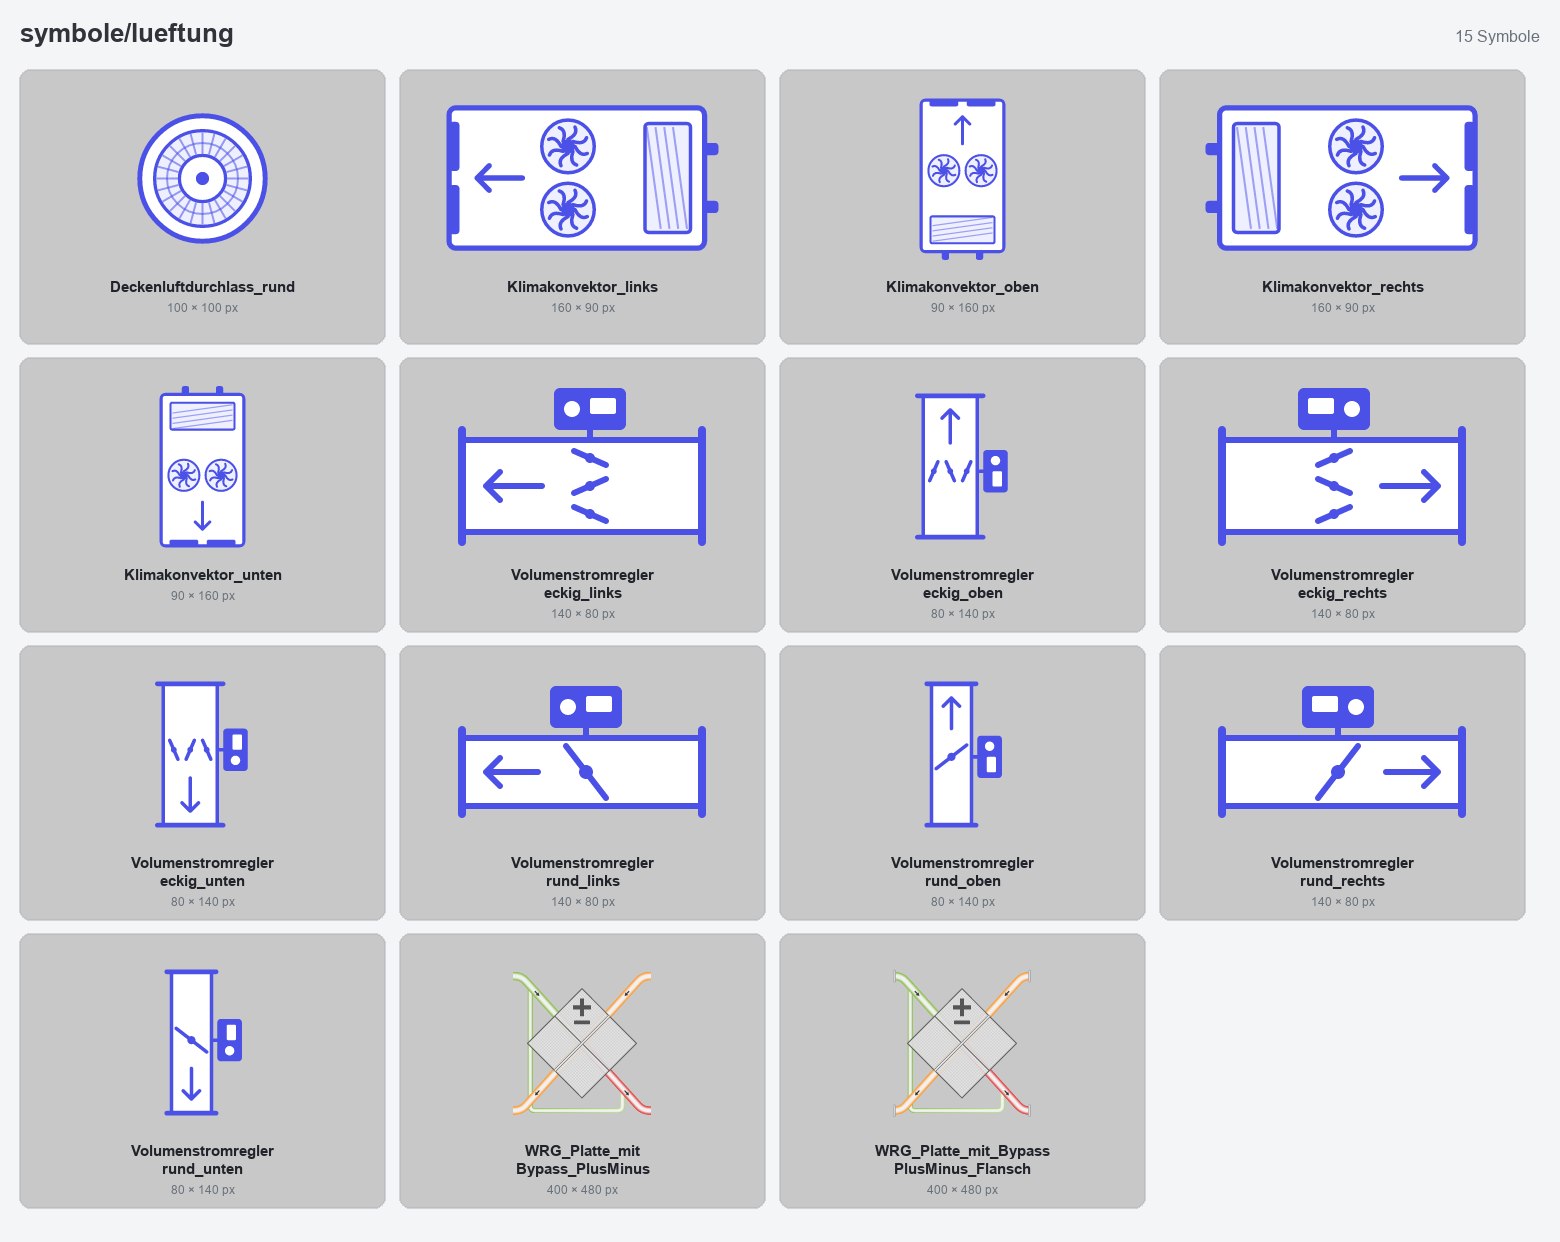
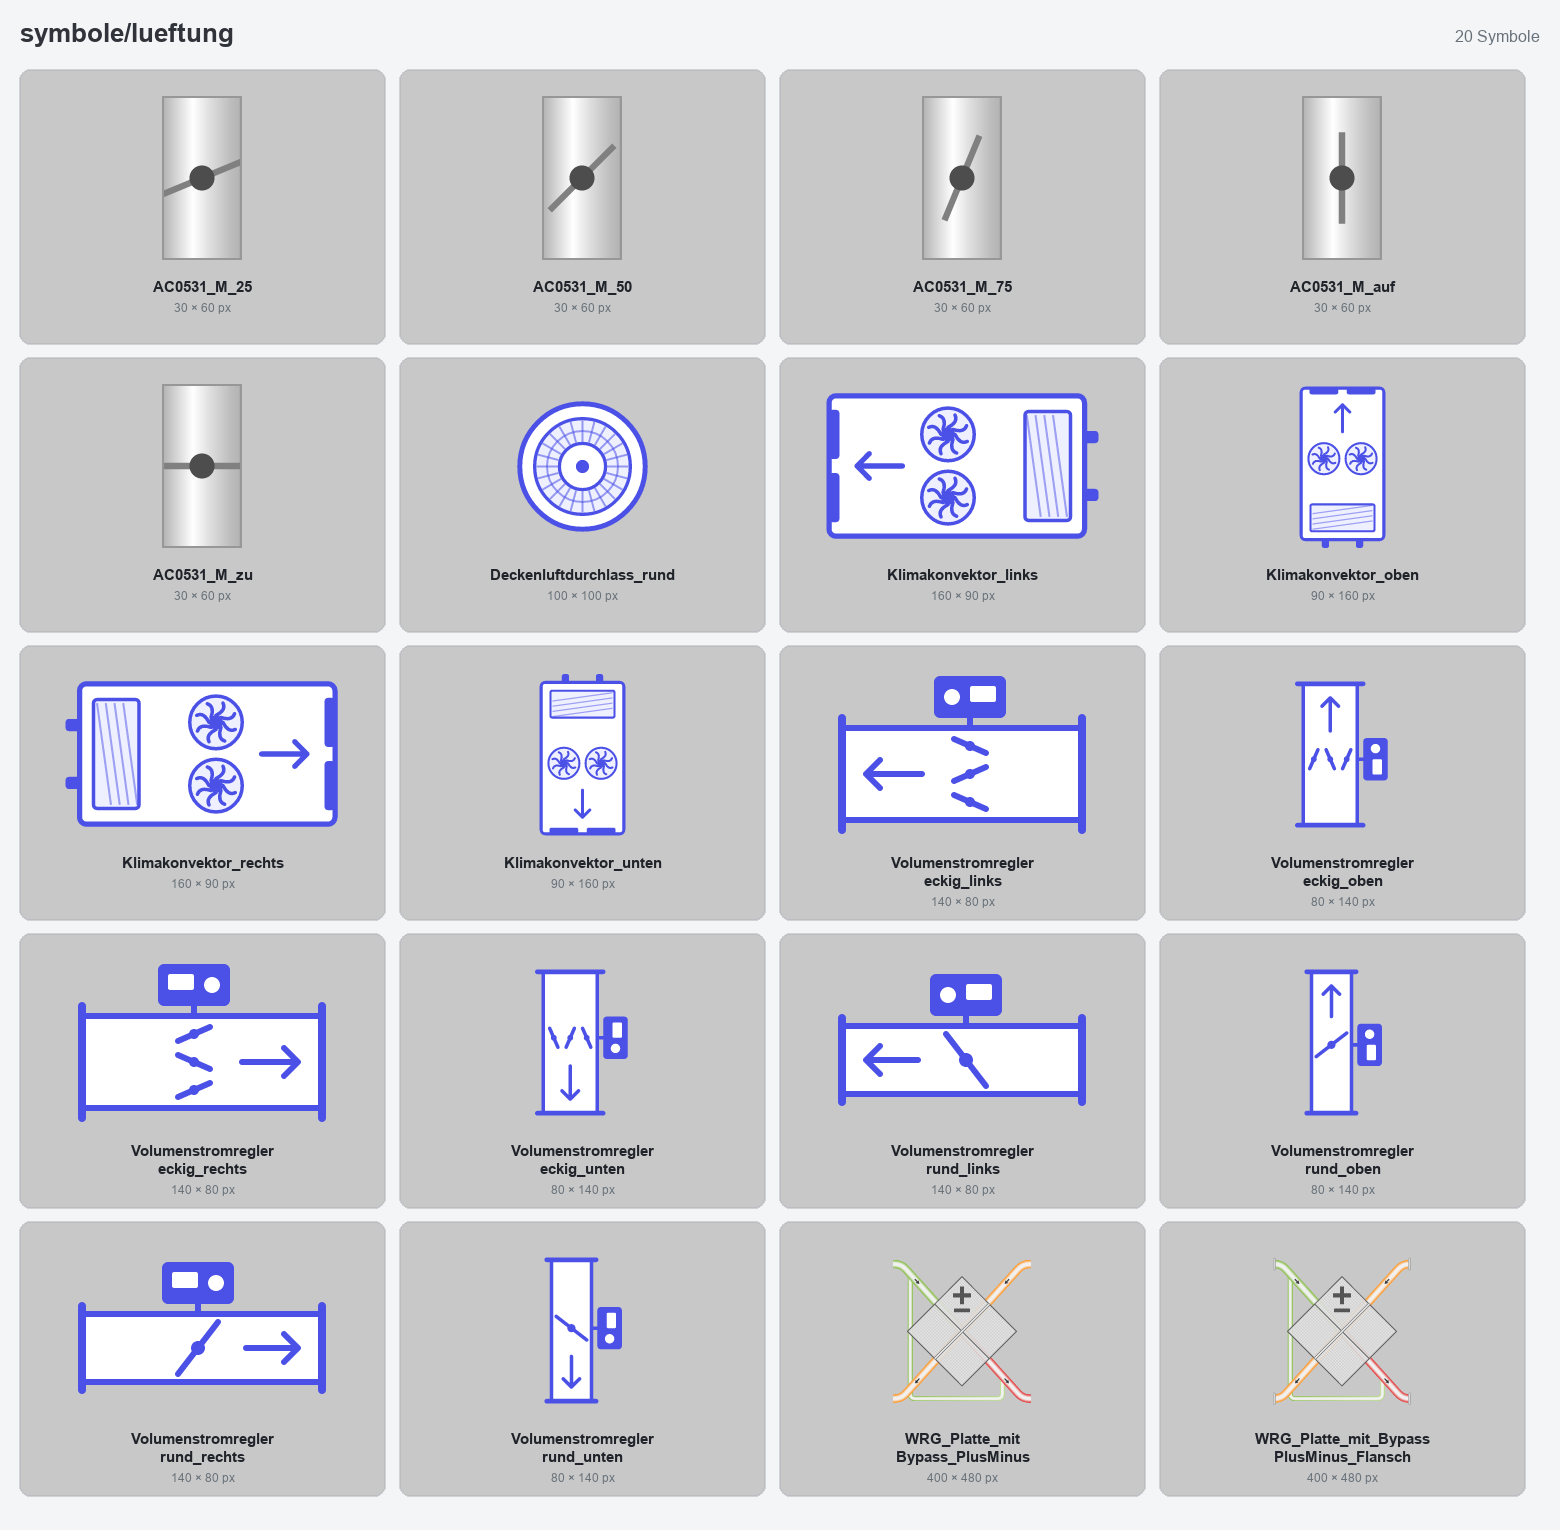
Klappe AC0531_M in fünf Stellungen (zu, 25, 50, 75, auf), Katalog und Übersicht ergänzt

diff --git a/docs/SYMBOLKATALOG.md b/docs/SYMBOLKATALOG.md
@@ -14,6 +14,7 @@ Status: Das Repository enthält die Symbole unter `symbole/` (jeweils SVG + PNG)
 | Deckenluftdurchlass rund (Hallen-Lochblech) | quadratisch | Kreis füllt die Bildfläche, ohne Stellhebel |
 | WRG Kreuzstrom-Plattenwärmetauscher | 400 × 480 (im Schema ca. 331 × 399) | Kein Rahmen; Anschlüsse links/rechts bei y = 46,5 und y = 435,5, Kanalhöhe 24; Varianten mit/ohne Bypass |
 | WRG mit Flanschen (`WRG_Platte_mit_Bypass_PlusMinus_Flansch`) | 400 × 480 | Wie oben, zusätzlich Flansch (6 × 34) an allen vier Anschlüssen ganz außen am Symbolrand; Kanäle enden am Flansch. Bestehender Kanal im Schema muss an der Flanschkante enden |
+| Klappe AC0531_M in fünf Stellungen (`AC0531_M_zu`, `_25`, `_50`, `_75`, `_auf`) | 30 × 60 | Klappenblatt 90° / 67,5° / 45° / 22,5° / 0° zur Kanalachse (zu = quer, auf = längs); Kanal verläuft entlang der langen Seite; grau, Statusfarbe über Niagara. Ableitung des Symbols AC0531_M aus der SBC-Icon-Galerie (Honeywell) |
 
 WRG-Luftwege: Außenluft oben links (grün) → Zuluft unten rechts (rot); Abluft oben rechts → Fortluft unten links (orange).
 
